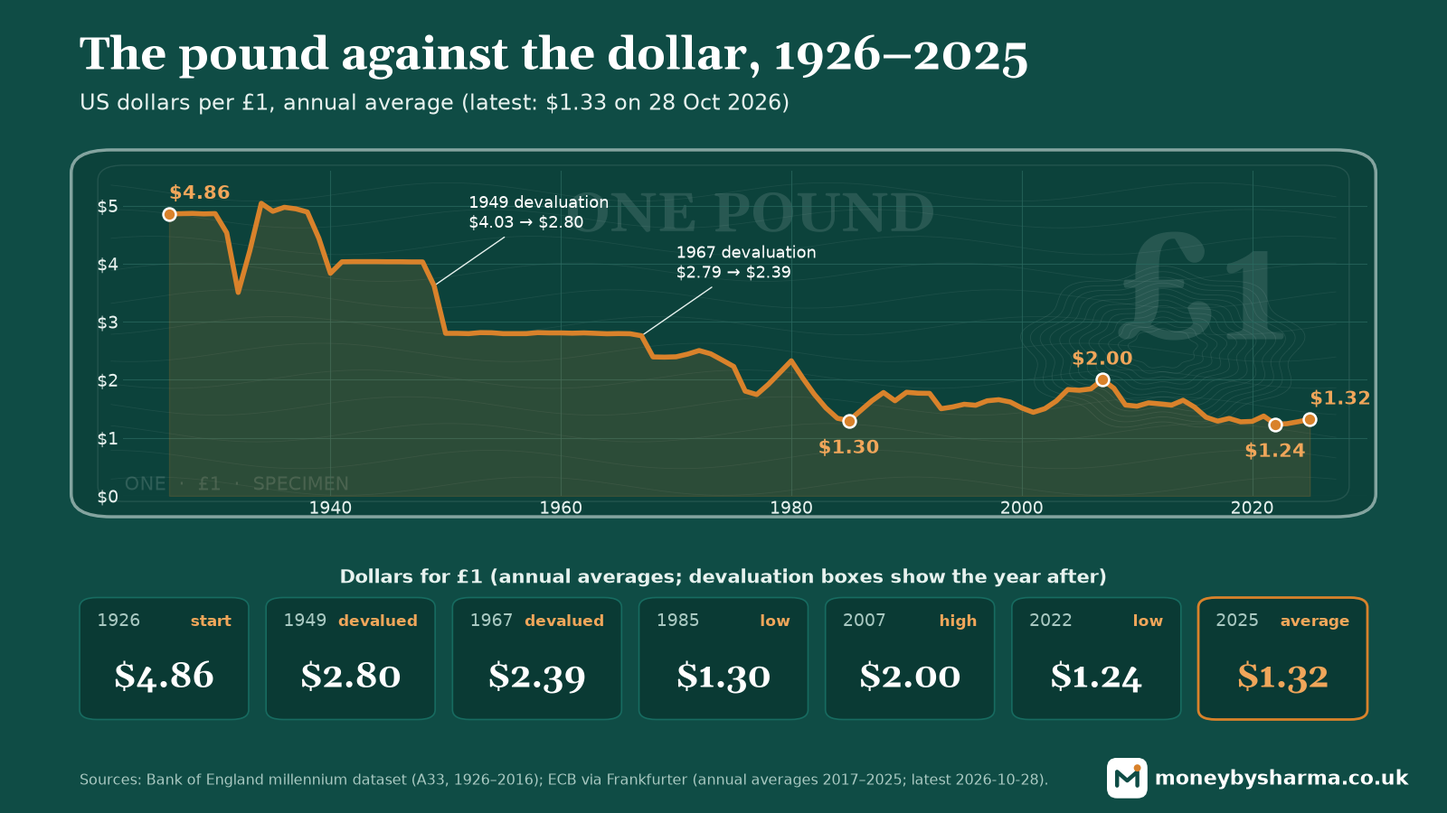
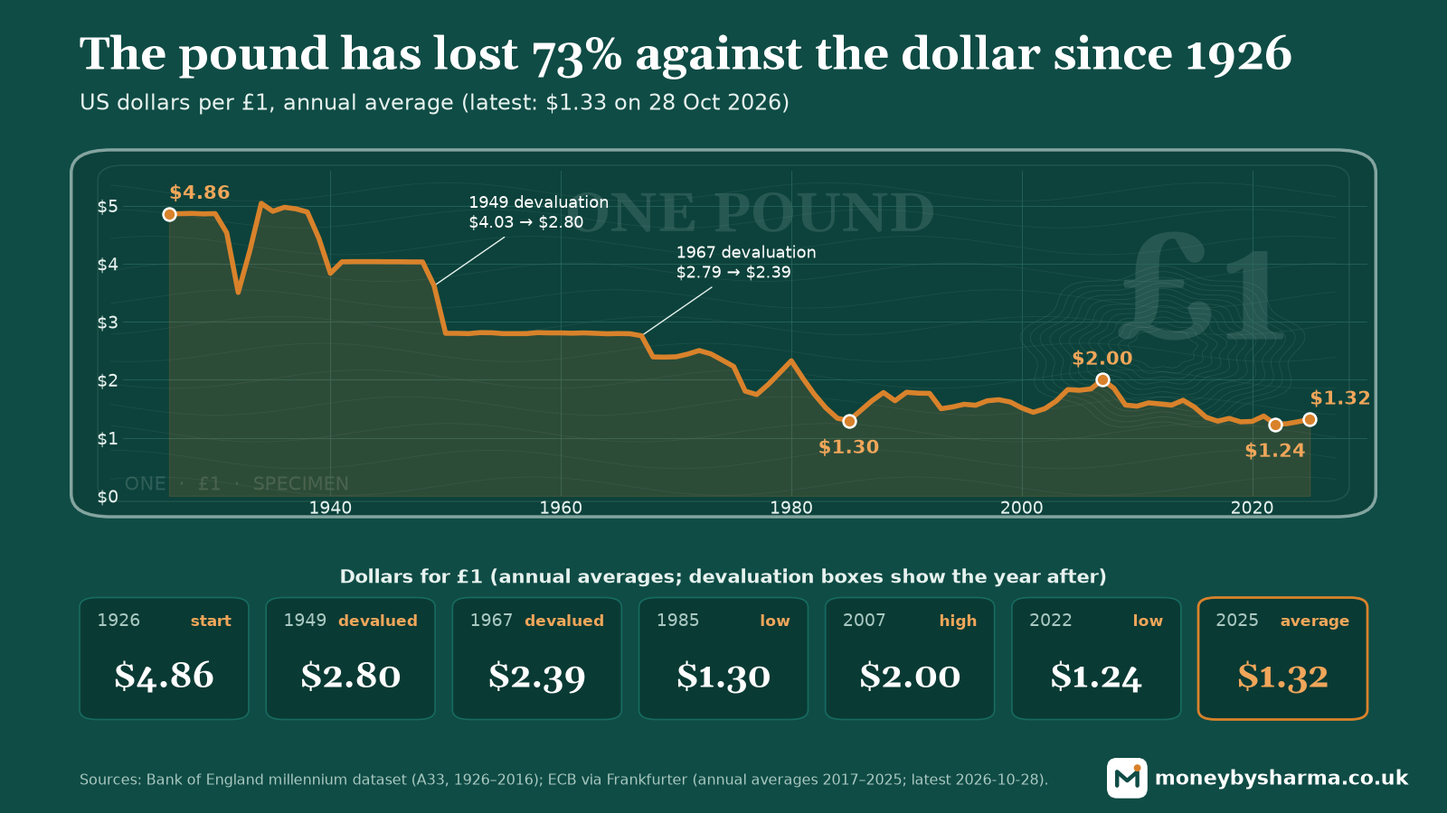
Cash vs inflation: GBP/USD chart headline 'The pound has lost 73% against the dollar since 1926' (computed); img ?v=3

Changed region(s): [[0.2188, 0.0311, 0.9062, 0.0933]]

diff --git a/cash-vs-inflation.html b/cash-vs-inflation.html
@@ -24,7 +24,7 @@
 <figure><img alt="Chart: the pound has lost 99% of its value in 100 years. Measured with the ONS Retail Prices Index, £1 from 1926 had about 1.2p of buying power in 2025, as prices rose about 86 times. Milestones: 1946 69p (£1.46 buys what £1 bought in 1926), 1966 30p (£3.28), 1986 4.8p (£21), 2006 2.4p (£42), 2025 1.2p (£86). Buying power peaked at 117p in 1933–34, when prices were falling." src="assets/pound-99pct-100y.png?v=2" width="1600" height="900" loading="lazy"><figcaption>What £1 from 1926 buys now, and what 1926’s £1 of shopping costs today. Source: ONS Retail Prices Index long-run series (CDKO), annual, 1926–2025. Chart: moneybysharma.co.uk.</figcaption></figure>
 <p>Using the ONS's long-run <strong>Retail Prices Index</strong> (an older measure of how prices change), the index stood at 18.5 in 1926 and 1,588.6 in 2025. That means prices rose roughly <strong>86 times</strong> over the century. Put another way, <strong>£1 from 1926 buys only about 1.2p worth of what it did back then.</strong></p>
 <p>The pound has weakened against the US dollar too: about <strong>$4.86 in 1926</strong> compared with roughly <strong>$1.33 on 28 October 2026</strong>.</p>
-<figure><img alt="Chart: the pound against the US dollar, 1926 to 2025, annual averages. $4.86 in 1926; devalued in 1949 ($4.03 in 1948 to $2.80 in 1950) and 1967 ($2.79 in 1966 to $2.39 in 1968); a low of $1.30 in 1985; a high of $2.00 in 2007; a low of $1.24 in 2022; $1.32 on average in 2025. Latest rate $1.33 on 28 October 2026." src="assets/gbp-usd-1926-2025.png?v=2" width="1600" height="900" loading="lazy"><figcaption>US dollars per £1, annual averages, 1926–2025. Sources: Bank of England, A millennium of macroeconomic data (A33, 1926–2016); ECB reference rates via Frankfurter (2017–2025 averages; latest 28 October 2026). Chart: moneybysharma.co.uk.</figcaption></figure>
+<figure><img alt="Chart: the pound has lost 73% against the US dollar since 1926 (annual averages, 1926 to 2025). $4.86 in 1926; devalued in 1949 ($4.03 in 1948 to $2.80 in 1950) and 1967 ($2.79 in 1966 to $2.39 in 1968); a low of $1.30 in 1985; a high of $2.00 in 2007; a low of $1.24 in 2022; $1.32 on average in 2025. Latest rate $1.33 on 28 October 2026." src="assets/gbp-usd-1926-2025.png?v=3" width="1600" height="900" loading="lazy"><figcaption>US dollars per £1, annual averages, 1926–2025. Sources: Bank of England, A millennium of macroeconomic data (A33, 1926–2016); ECB reference rates via Frankfurter (2017–2025 averages; latest 28 October 2026). Chart: moneybysharma.co.uk.</figcaption></figure>
 <p>Nobody keeps cash under the mattress for 100 years, of course. But the same thing happens on a smaller scale over any decade.</p>
 <h2 id="example">A simple worked example (illustrative)</h2>
 <p>Let's keep the maths simple. These numbers are <strong>illustrative only</strong>, not a forecast:</p>

diff --git a/scripts/pages22.py b/scripts/pages22.py
@@ -4,4 +4,4 @@
 # /workspace/moneybysharma-x/cash-vs-inflation/charts/mbs_charts.py from ONS CDKO + BoE/ECB data. Old chart kept: assets/gbp-100y-moneybysharma.png.
 pages["cash-vs-inflation.html"] = page("cash-vs-inflation.html", 'Cash vs Inflation: Why Idle Savings Lose Value (UK)',
   "How inflation eats the buying power of cash, a 100-year UK picture, a worked example and a sensible order for growing money long term.",
-  '<div class="page-head"><div class="wrap"><div class="crumb"><a href="index.html">Home</a> › <a href="how-money-works.html">Learn</a> › Cash vs inflation</div><h1>Why cash alone keeps you poorer: how inflation eats your savings</h1><p>Why money left in cash loses buying power, and the sensible order to grow it over the long term. Information, not financial advice.</p></div></div><div class="wrap"><style>figure{margin:1rem 0}figure img{max-width:100%;height:auto;border-radius:10px;border:1px solid #d7e3df}figcaption{font-size:.85rem;color:#555;margin-top:.4rem}#sources+ul a{overflow-wrap:anywhere}</style>\n<div class="cols"><div>\n<p>I want to start with something that surprised me when I first worked it out. Money sitting still isn\'t really sitting still. If it\'s in a drawer, a current account, or a savings account paying less than inflation, it buys a bit less every year. Nobody takes it from you. Prices just creep up, and your pounds stretch less far.</p>\n<p>That\'s why I think understanding money matters so much. Saving is a great habit. But if your long-term money only ever sits in cash, it can quietly lose ground. Over the long run, investing sensibly is how most people grow their wealth.</p>\n<h2 id="what">What inflation actually is</h2>\n<p><strong>Inflation</strong> is the rate at which prices rise over time. If inflation is 3%, something that cost £100 a year ago costs about £103 today. Your £100 note hasn\'t changed, but it now buys a little less. Economists call this losing <strong>purchasing power</strong> (or buying power).</p>\n<p>The Bank of England tries to keep inflation at 2% a year. Right now it\'s above that. The Office for National Statistics\' latest figure shows Consumer Prices Index (CPI) inflation at <strong>3.5% in the 12 months to September 2026</strong>, and the Bank of England\'s interest rate (<strong>Bank Rate</strong>) is <strong>3.75%</strong>. Bank Rate affects the interest banks pay on savings, so it\'s worth checking whether your own savings rate is actually beating inflation. Many easy-access accounts and most current accounts don\'t.</p>\n<h2 id="century">The 100-year picture</h2>\n<p>Here\'s what a century of rising prices looks like.</p>\n<figure><img alt="Chart: the pound has lost 99% of its value in 100 years. Measured with the ONS Retail Prices Index, £1 from 1926 had about 1.2p of buying power in 2025, as prices rose about 86 times. Milestones: 1946 69p (£1.46 buys what £1 bought in 1926), 1966 30p (£3.28), 1986 4.8p (£21), 2006 2.4p (£42), 2025 1.2p (£86). Buying power peaked at 117p in 1933–34, when prices were falling." src="assets/pound-99pct-100y.png?v=2" width="1600" height="900" loading="lazy"><figcaption>What £1 from 1926 buys now, and what 1926’s £1 of shopping costs today. Source: ONS Retail Prices Index long-run series (CDKO), annual, 1926–2025. Chart: moneybysharma.co.uk.</figcaption></figure>\n<p>Using the ONS\'s long-run <strong>Retail Prices Index</strong> (an older measure of how prices change), the index stood at 18.5 in 1926 and 1,588.6 in 2025. That means prices rose roughly <strong>86 times</strong> over the century. Put another way, <strong>£1 from 1926 buys only about 1.2p worth of what it did back then.</strong></p>\n<p>The pound has weakened against the US dollar too: about <strong>$4.86 in 1926</strong> compared with roughly <strong>$1.33 on 28 October 2026</strong>.</p>\n<figure><img alt="Chart: the pound against the US dollar, 1926 to 2025, annual averages. $4.86 in 1926; devalued in 1949 ($4.03 in 1948 to $2.80 in 1950) and 1967 ($2.79 in 1966 to $2.39 in 1968); a low of $1.30 in 1985; a high of $2.00 in 2007; a low of $1.24 in 2022; $1.32 on average in 2025. Latest rate $1.33 on 28 October 2026." src="assets/gbp-usd-1926-2025.png?v=2" width="1600" height="900" loading="lazy"><figcaption>US dollars per £1, annual averages, 1926–2025. Sources: Bank of England, A millennium of macroeconomic data (A33, 1926–2016); ECB reference rates via Frankfurter (2017–2025 averages; latest 28 October 2026). Chart: moneybysharma.co.uk.</figcaption></figure>\n<p>Nobody keeps cash under the mattress for 100 years, of course. But the same thing happens on a smaller scale over any decade.</p>\n<h2 id="example">A simple worked example (illustrative)</h2>\n<p>Let\'s keep the maths simple. These numbers are <strong>illustrative only</strong>, not a forecast:</p>\n<ul>\n<li>You hold <strong>£10,000 in cash earning 0% interest</strong>.</li>\n<li>Inflation averages <strong>3% a year</strong> for <strong>10 years</strong>.</li>\n</ul>\n<p>After 10 years you\'d still have £10,000. But it would buy only about <strong>£7,440</strong> worth of what it buys today (£10,000 ÷ 1.03¹⁰). That\'s roughly a quarter of its buying power gone, without you spending a penny.</p>\n<p>Interest helps. If your savings rate matches or beats inflation, you keep up. The problem is cash that earns little or nothing for years at a time.</p>\n<h2 id="steps">So what can you do? A sensible order</h2>\n<p>I don\'t think the answer is "put everything into the stock market." Investing has real risks, and the order you do things in matters. Here\'s the order most guidance suggests.</p>\n<h3>1. Build an emergency fund in easy-access cash first</h3>\n<p>Cash is the right home for money you might need soon. Many guides suggest <strong>3–6 months of essential spending</strong> (rent or mortgage, bills, food, travel) in an easy-access savings account (see <a href="https://www.moneyhelper.org.uk/en/savings/types-of-savings/emergency-savings-how-much-is-enough" target="_blank" rel="noopener noreferrer">MoneyHelper on emergency savings</a>). This is your safety net, so you\'re never forced to sell investments at a bad time or reach for a credit card. Shop around for a decent rate. See my guide to <a href="budgeting-emergency-fund.html#emergency">budgeting and emergency funds</a>.</p>\n<h3>2. Pay off expensive debt</h3>\n<p>If you\'re paying 20% or more on a credit card, clearing it is a guaranteed "return" that\'s very hard to beat by investing. Deal with high-interest debt before you invest. See <a href="credit-scores-debt-help.html">credit scores and debt help</a>.</p>\n<h3>3. Invest money you won\'t need for at least 5 years</h3>\n<p><strong>Investing</strong> means buying a share in things like companies (<strong>shares</strong>, also called equities) or lending to governments and firms (<strong>bonds</strong>). Over long periods, shares have historically tended to grow faster than inflation, but there\'s no guarantee. Prices can fall sharply, sometimes for years.</p>\n<p><strong>The value of investments can go down as well as up, and you may get back less than you put in.</strong></p>\n<p>That\'s why time matters. Money you\'ll need within five years usually belongs in cash. Money for 10, 20 or 30 years from now has time to ride out the bad patches.</p>\n<h3>4. Use tax wrappers</h3>\n<p>A <strong>tax wrapper</strong> is like a protective box around your money that shields it from tax.</p>\n<ul>\n<li><strong>Stocks &amp; Shares ISA:</strong> you can put in up to £20,000 a year (across all your ISAs) and pay no UK tax on the growth or income, and none when you take money out.</li>\n<li><strong>Pensions:</strong> you get tax relief on what you pay in, and workplace pensions often come with your employer\'s contributions on top. That\'s extra money. The trade-off is that you can normally only access it <a href="https://www.gov.uk/government/publications/increasing-normal-minimum-pension-age" target="_blank" rel="noopener noreferrer">from age 55 (rising to 57 from 6 April 2028)</a>.</li>\n</ul>\n<p>More detail in my guides to <a href="investments.html#isa">investments and ISAs</a> and <a href="pensions.html">pensions</a>.</p>\n<h3>5. Keep it simple, low-cost and spread out</h3>\n<p>You don\'t need to pick individual shares. Many people use <strong>low-cost, diversified funds</strong>. A <strong>fund</strong> pools money from lots of investors to buy many different investments at once. <strong>Diversified</strong> means spread out, so one company or country having a bad year doesn\'t sink you. <strong>Index funds</strong> (also called tracker funds) simply follow a whole market, and they usually have low fees.</p>\n<p>Fees matter more than they look. A 1% difference each year compounds over decades, just like returns do. See <a href="power-of-compounding.html">the power of compounding</a>.</p>\n<h2 id="bottom">The honest bottom line</h2>\n<p>Cash is essential for your emergency fund and short-term plans. But cash you won\'t touch for many years, earning less than inflation, is quietly getting poorer. Understanding how money works, and putting long-term money to work sensibly, is how most people build wealth over time.</p>\n<p>Investing isn\'t the only option and it\'s never guaranteed. If you\'re unsure, the government-backed <a target="_blank" rel="noopener noreferrer" href="https://www.moneyhelper.org.uk/">MoneyHelper</a> service offers free guidance, or you can speak to an FCA-authorised financial adviser.</p>\n<h2 id="sources">Sources</h2>\n<ul>\n<li>ONS – CPI annual rate (D7G7), September 2026: 3.5% (released 21 October 2026): <a href="https://www.ons.gov.uk/economy/inflationandpriceindices/timeseries/d7g7/mm23" target="_blank" rel="noopener noreferrer">https://www.ons.gov.uk/economy/inflationandpriceindices/timeseries/d7g7/mm23</a></li>\n<li>Bank of England – Bank Rate 3.75%, inflation target 2%: <a href="https://www.bankofengland.co.uk/monetary-policy/the-interest-rate-bank-rate" target="_blank" rel="noopener noreferrer">https://www.bankofengland.co.uk/monetary-policy/the-interest-rate-bank-rate</a></li>\n<li>ONS – Retail Prices Index long-run series (CDKO): <a href="https://www.ons.gov.uk/economy/inflationandpriceindices/timeseries/cdko/mm23" target="_blank" rel="noopener noreferrer">https://www.ons.gov.uk/economy/inflationandpriceindices/timeseries/cdko/mm23</a></li>\n<li>Bank of England – A millennium of macroeconomic data (GBP/USD 1926): <a href="https://www.bankofengland.co.uk/statistics/research-datasets" target="_blank" rel="noopener noreferrer">https://www.bankofengland.co.uk/statistics/research-datasets</a></li>\n<li>GOV.UK – Individual Savings Accounts (ISA allowance £20,000, 2026 to 2027 tax year): <a href="https://www.gov.uk/individual-savings-accounts" target="_blank" rel="noopener noreferrer">https://www.gov.uk/individual-savings-accounts</a></li>\n<li>GOV.UK – Increasing normal minimum pension age (55 to 57 from 6 April 2028): <a href="https://www.gov.uk/government/publications/increasing-normal-minimum-pension-age" target="_blank" rel="noopener noreferrer">https://www.gov.uk/government/publications/increasing-normal-minimum-pension-age</a></li>\n<li>MoneyHelper – How much to save for an emergency (3–6 months of essential outgoings): <a href="https://www.moneyhelper.org.uk/en/savings/types-of-savings/emergency-savings-how-much-is-enough" target="_blank" rel="noopener noreferrer">https://www.moneyhelper.org.uk/en/savings/types-of-savings/emergency-savings-how-much-is-enough</a></li>\n<li>ECB reference rates via Frankfurter (GBP/USD, 28 October 2026): <a href="https://www.frankfurter.app/" target="_blank" rel="noopener noreferrer">https://www.frankfurter.app/</a></li>\n</ul>\n<p><em>Information, not financial advice.</em></p>\n</div><aside><div class="card toc"><h3>On this page</h3><a href="#what">What inflation actually is</a><a href="#century">The 100-year picture</a><a href="#example">A simple worked example</a><a href="#steps">So what can you do? A sensible order</a><a href="#bottom">The honest bottom line</a><a href="#sources">Sources</a></div></aside></div></div>')
+  '<div class="page-head"><div class="wrap"><div class="crumb"><a href="index.html">Home</a> › <a href="how-money-works.html">Learn</a> › Cash vs inflation</div><h1>Why cash alone keeps you poorer: how inflation eats your savings</h1><p>Why money left in cash loses buying power, and the sensible order to grow it over the long term. Information, not financial advice.</p></div></div><div class="wrap"><style>figure{margin:1rem 0}figure img{max-width:100%;height:auto;border-radius:10px;border:1px solid #d7e3df}figcaption{font-size:.85rem;color:#555;margin-top:.4rem}#sources+ul a{overflow-wrap:anywhere}</style>\n<div class="cols"><div>\n<p>I want to start with something that surprised me when I first worked it out. Money sitting still isn\'t really sitting still. If it\'s in a drawer, a current account, or a savings account paying less than inflation, it buys a bit less every year. Nobody takes it from you. Prices just creep up, and your pounds stretch less far.</p>\n<p>That\'s why I think understanding money matters so much. Saving is a great habit. But if your long-term money only ever sits in cash, it can quietly lose ground. Over the long run, investing sensibly is how most people grow their wealth.</p>\n<h2 id="what">What inflation actually is</h2>\n<p><strong>Inflation</strong> is the rate at which prices rise over time. If inflation is 3%, something that cost £100 a year ago costs about £103 today. Your £100 note hasn\'t changed, but it now buys a little less. Economists call this losing <strong>purchasing power</strong> (or buying power).</p>\n<p>The Bank of England tries to keep inflation at 2% a year. Right now it\'s above that. The Office for National Statistics\' latest figure shows Consumer Prices Index (CPI) inflation at <strong>3.5% in the 12 months to September 2026</strong>, and the Bank of England\'s interest rate (<strong>Bank Rate</strong>) is <strong>3.75%</strong>. Bank Rate affects the interest banks pay on savings, so it\'s worth checking whether your own savings rate is actually beating inflation. Many easy-access accounts and most current accounts don\'t.</p>\n<h2 id="century">The 100-year picture</h2>\n<p>Here\'s what a century of rising prices looks like.</p>\n<figure><img alt="Chart: the pound has lost 99% of its value in 100 years. Measured with the ONS Retail Prices Index, £1 from 1926 had about 1.2p of buying power in 2025, as prices rose about 86 times. Milestones: 1946 69p (£1.46 buys what £1 bought in 1926), 1966 30p (£3.28), 1986 4.8p (£21), 2006 2.4p (£42), 2025 1.2p (£86). Buying power peaked at 117p in 1933–34, when prices were falling." src="assets/pound-99pct-100y.png?v=2" width="1600" height="900" loading="lazy"><figcaption>What £1 from 1926 buys now, and what 1926’s £1 of shopping costs today. Source: ONS Retail Prices Index long-run series (CDKO), annual, 1926–2025. Chart: moneybysharma.co.uk.</figcaption></figure>\n<p>Using the ONS\'s long-run <strong>Retail Prices Index</strong> (an older measure of how prices change), the index stood at 18.5 in 1926 and 1,588.6 in 2025. That means prices rose roughly <strong>86 times</strong> over the century. Put another way, <strong>£1 from 1926 buys only about 1.2p worth of what it did back then.</strong></p>\n<p>The pound has weakened against the US dollar too: about <strong>$4.86 in 1926</strong> compared with roughly <strong>$1.33 on 28 October 2026</strong>.</p>\n<figure><img alt="Chart: the pound has lost 73% against the US dollar since 1926 (annual averages, 1926 to 2025). $4.86 in 1926; devalued in 1949 ($4.03 in 1948 to $2.80 in 1950) and 1967 ($2.79 in 1966 to $2.39 in 1968); a low of $1.30 in 1985; a high of $2.00 in 2007; a low of $1.24 in 2022; $1.32 on average in 2025. Latest rate $1.33 on 28 October 2026." src="assets/gbp-usd-1926-2025.png?v=3" width="1600" height="900" loading="lazy"><figcaption>US dollars per £1, annual averages, 1926–2025. Sources: Bank of England, A millennium of macroeconomic data (A33, 1926–2016); ECB reference rates via Frankfurter (2017–2025 averages; latest 28 October 2026). Chart: moneybysharma.co.uk.</figcaption></figure>\n<p>Nobody keeps cash under the mattress for 100 years, of course. But the same thing happens on a smaller scale over any decade.</p>\n<h2 id="example">A simple worked example (illustrative)</h2>\n<p>Let\'s keep the maths simple. These numbers are <strong>illustrative only</strong>, not a forecast:</p>\n<ul>\n<li>You hold <strong>£10,000 in cash earning 0% interest</strong>.</li>\n<li>Inflation averages <strong>3% a year</strong> for <strong>10 years</strong>.</li>\n</ul>\n<p>After 10 years you\'d still have £10,000. But it would buy only about <strong>£7,440</strong> worth of what it buys today (£10,000 ÷ 1.03¹⁰). That\'s roughly a quarter of its buying power gone, without you spending a penny.</p>\n<p>Interest helps. If your savings rate matches or beats inflation, you keep up. The problem is cash that earns little or nothing for years at a time.</p>\n<h2 id="steps">So what can you do? A sensible order</h2>\n<p>I don\'t think the answer is "put everything into the stock market." Investing has real risks, and the order you do things in matters. Here\'s the order most guidance suggests.</p>\n<h3>1. Build an emergency fund in easy-access cash first</h3>\n<p>Cash is the right home for money you might need soon. Many guides suggest <strong>3–6 months of essential spending</strong> (rent or mortgage, bills, food, travel) in an easy-access savings account (see <a href="https://www.moneyhelper.org.uk/en/savings/types-of-savings/emergency-savings-how-much-is-enough" target="_blank" rel="noopener noreferrer">MoneyHelper on emergency savings</a>). This is your safety net, so you\'re never forced to sell investments at a bad time or reach for a credit card. Shop around for a decent rate. See my guide to <a href="budgeting-emergency-fund.html#emergency">budgeting and emergency funds</a>.</p>\n<h3>2. Pay off expensive debt</h3>\n<p>If you\'re paying 20% or more on a credit card, clearing it is a guaranteed "return" that\'s very hard to beat by investing. Deal with high-interest debt before you invest. See <a href="credit-scores-debt-help.html">credit scores and debt help</a>.</p>\n<h3>3. Invest money you won\'t need for at least 5 years</h3>\n<p><strong>Investing</strong> means buying a share in things like companies (<strong>shares</strong>, also called equities) or lending to governments and firms (<strong>bonds</strong>). Over long periods, shares have historically tended to grow faster than inflation, but there\'s no guarantee. Prices can fall sharply, sometimes for years.</p>\n<p><strong>The value of investments can go down as well as up, and you may get back less than you put in.</strong></p>\n<p>That\'s why time matters. Money you\'ll need within five years usually belongs in cash. Money for 10, 20 or 30 years from now has time to ride out the bad patches.</p>\n<h3>4. Use tax wrappers</h3>\n<p>A <strong>tax wrapper</strong> is like a protective box around your money that shields it from tax.</p>\n<ul>\n<li><strong>Stocks &amp; Shares ISA:</strong> you can put in up to £20,000 a year (across all your ISAs) and pay no UK tax on the growth or income, and none when you take money out.</li>\n<li><strong>Pensions:</strong> you get tax relief on what you pay in, and workplace pensions often come with your employer\'s contributions on top. That\'s extra money. The trade-off is that you can normally only access it <a href="https://www.gov.uk/government/publications/increasing-normal-minimum-pension-age" target="_blank" rel="noopener noreferrer">from age 55 (rising to 57 from 6 April 2028)</a>.</li>\n</ul>\n<p>More detail in my guides to <a href="investments.html#isa">investments and ISAs</a> and <a href="pensions.html">pensions</a>.</p>\n<h3>5. Keep it simple, low-cost and spread out</h3>\n<p>You don\'t need to pick individual shares. Many people use <strong>low-cost, diversified funds</strong>. A <strong>fund</strong> pools money from lots of investors to buy many different investments at once. <strong>Diversified</strong> means spread out, so one company or country having a bad year doesn\'t sink you. <strong>Index funds</strong> (also called tracker funds) simply follow a whole market, and they usually have low fees.</p>\n<p>Fees matter more than they look. A 1% difference each year compounds over decades, just like returns do. See <a href="power-of-compounding.html">the power of compounding</a>.</p>\n<h2 id="bottom">The honest bottom line</h2>\n<p>Cash is essential for your emergency fund and short-term plans. But cash you won\'t touch for many years, earning less than inflation, is quietly getting poorer. Understanding how money works, and putting long-term money to work sensibly, is how most people build wealth over time.</p>\n<p>Investing isn\'t the only option and it\'s never guaranteed. If you\'re unsure, the government-backed <a target="_blank" rel="noopener noreferrer" href="https://www.moneyhelper.org.uk/">MoneyHelper</a> service offers free guidance, or you can speak to an FCA-authorised financial adviser.</p>\n<h2 id="sources">Sources</h2>\n<ul>\n<li>ONS – CPI annual rate (D7G7), September 2026: 3.5% (released 21 October 2026): <a href="https://www.ons.gov.uk/economy/inflationandpriceindices/timeseries/d7g7/mm23" target="_blank" rel="noopener noreferrer">https://www.ons.gov.uk/economy/inflationandpriceindices/timeseries/d7g7/mm23</a></li>\n<li>Bank of England – Bank Rate 3.75%, inflation target 2%: <a href="https://www.bankofengland.co.uk/monetary-policy/the-interest-rate-bank-rate" target="_blank" rel="noopener noreferrer">https://www.bankofengland.co.uk/monetary-policy/the-interest-rate-bank-rate</a></li>\n<li>ONS – Retail Prices Index long-run series (CDKO): <a href="https://www.ons.gov.uk/economy/inflationandpriceindices/timeseries/cdko/mm23" target="_blank" rel="noopener noreferrer">https://www.ons.gov.uk/economy/inflationandpriceindices/timeseries/cdko/mm23</a></li>\n<li>Bank of England – A millennium of macroeconomic data (GBP/USD 1926): <a href="https://www.bankofengland.co.uk/statistics/research-datasets" target="_blank" rel="noopener noreferrer">https://www.bankofengland.co.uk/statistics/research-datasets</a></li>\n<li>GOV.UK – Individual Savings Accounts (ISA allowance £20,000, 2026 to 2027 tax year): <a href="https://www.gov.uk/individual-savings-accounts" target="_blank" rel="noopener noreferrer">https://www.gov.uk/individual-savings-accounts</a></li>\n<li>GOV.UK – Increasing normal minimum pension age (55 to 57 from 6 April 2028): <a href="https://www.gov.uk/government/publications/increasing-normal-minimum-pension-age" target="_blank" rel="noopener noreferrer">https://www.gov.uk/government/publications/increasing-normal-minimum-pension-age</a></li>\n<li>MoneyHelper – How much to save for an emergency (3–6 months of essential outgoings): <a href="https://www.moneyhelper.org.uk/en/savings/types-of-savings/emergency-savings-how-much-is-enough" target="_blank" rel="noopener noreferrer">https://www.moneyhelper.org.uk/en/savings/types-of-savings/emergency-savings-how-much-is-enough</a></li>\n<li>ECB reference rates via Frankfurter (GBP/USD, 28 October 2026): <a href="https://www.frankfurter.app/" target="_blank" rel="noopener noreferrer">https://www.frankfurter.app/</a></li>\n</ul>\n<p><em>Information, not financial advice.</em></p>\n</div><aside><div class="card toc"><h3>On this page</h3><a href="#what">What inflation actually is</a><a href="#century">The 100-year picture</a><a href="#example">A simple worked example</a><a href="#steps">So what can you do? A sensible order</a><a href="#bottom">The honest bottom line</a><a href="#sources">Sources</a></div></aside></div></div>')
